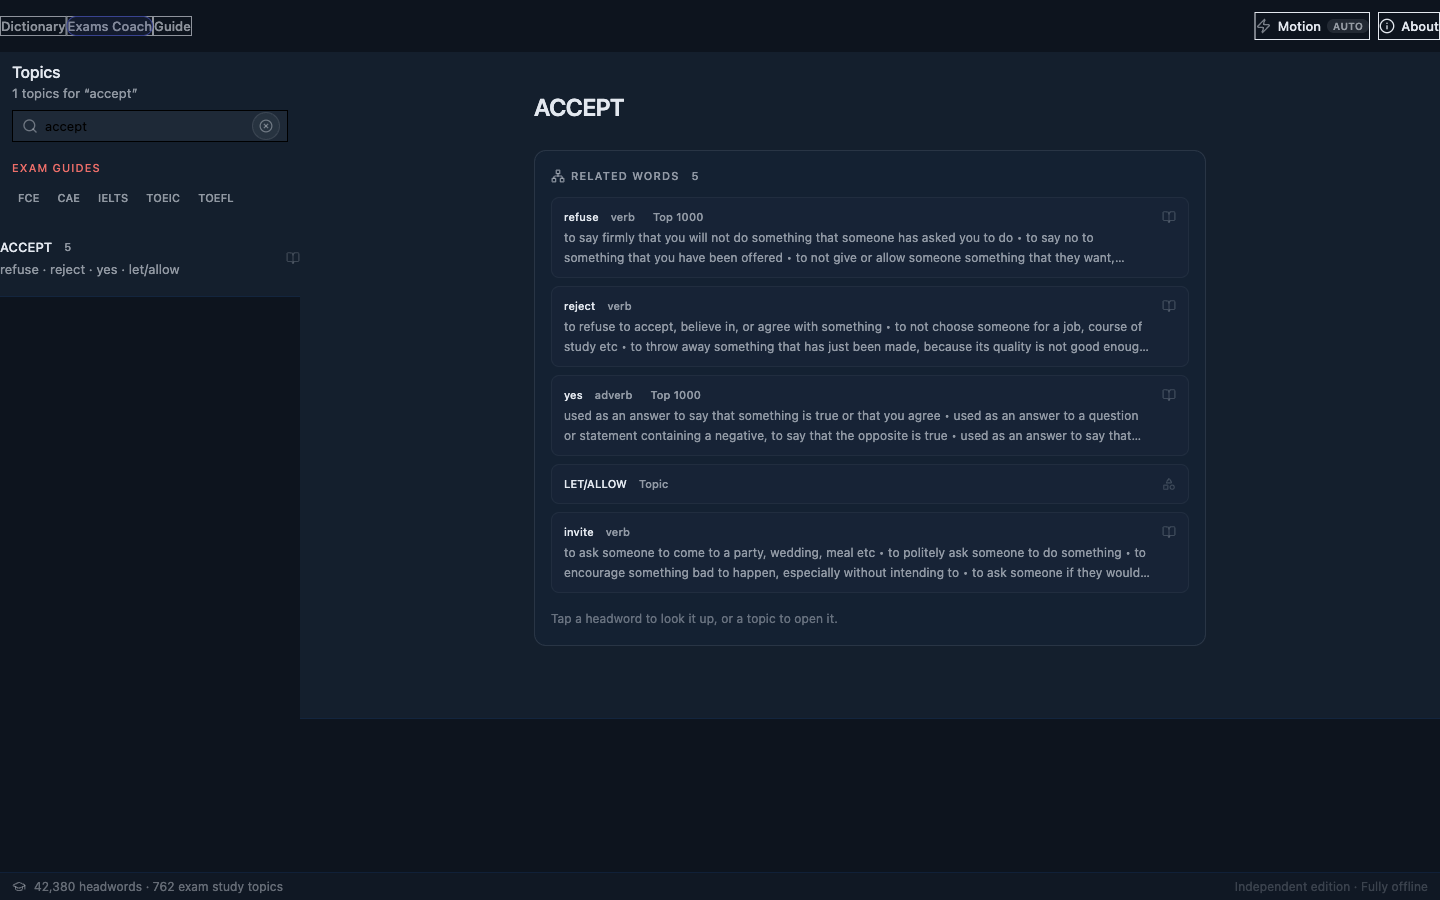
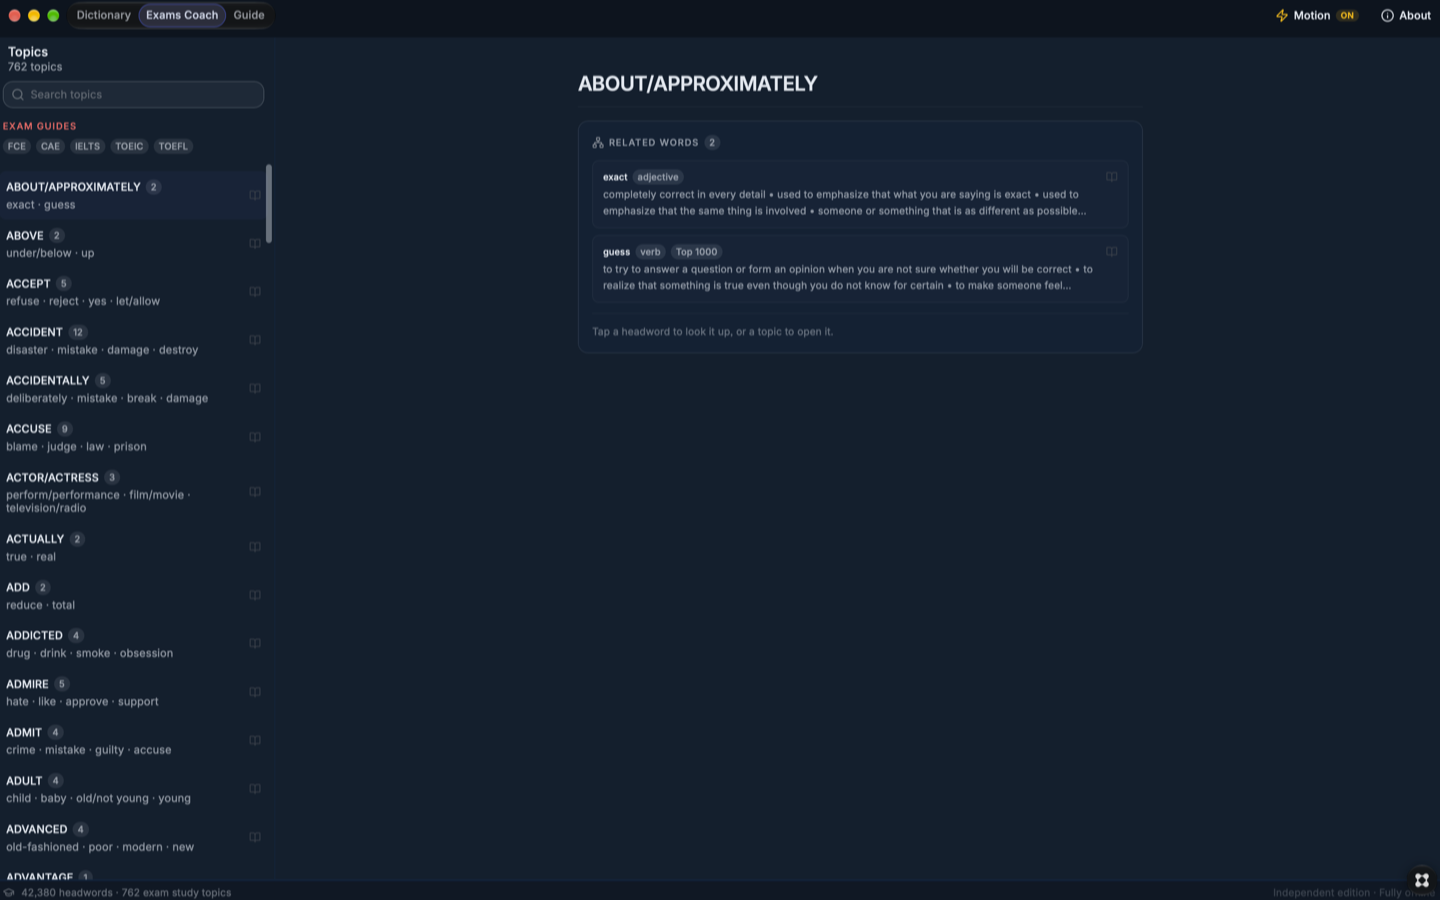
docs: refresh README screenshots from the real app

diff --git a/README.md b/README.md
@@ -19,13 +19,13 @@ Unofficial native macOS port of the classic **Longman Exams Dictionary CD-ROM (2
 
 ## Screenshots
 
-| Dictionary · gobsmacked | Exams Coach · ACCEPT |
+| Dictionary · ’bout | Exams Coach · ABOUT/APPROXIMATELY |
 |---|---|
-| ![Dictionary entry for “gobsmacked,” showing its definition and corpus examples](media/L-entry.png) | ![Exams Coach topic “ACCEPT,” with related-word definitions and exam guides](media/L-coach-detail.png) |
+| ![Dictionary entry for “’bout,” showing its definition and corpus examples](media/L-entry.png) | ![Exams Coach topic “ABOUT/APPROXIMATELY,” with related-word definitions](media/L-coach-detail.png) |
 
-| Guide · Word frequency | About |
+| Guide · Guide contents | About |
 |---|---|
-| ![Guide article explaining Longman frequency bands in an accessible table](media/L-guide-article.png) | ![About dialog showing dictionary and corpus statistics](media/L-about.png) |
+| ![Guide contents page listing the five study journeys](media/L-guide-article.png) | ![About dialog showing dictionary and corpus statistics](media/L-about.png) |
 
 ## Features
 
